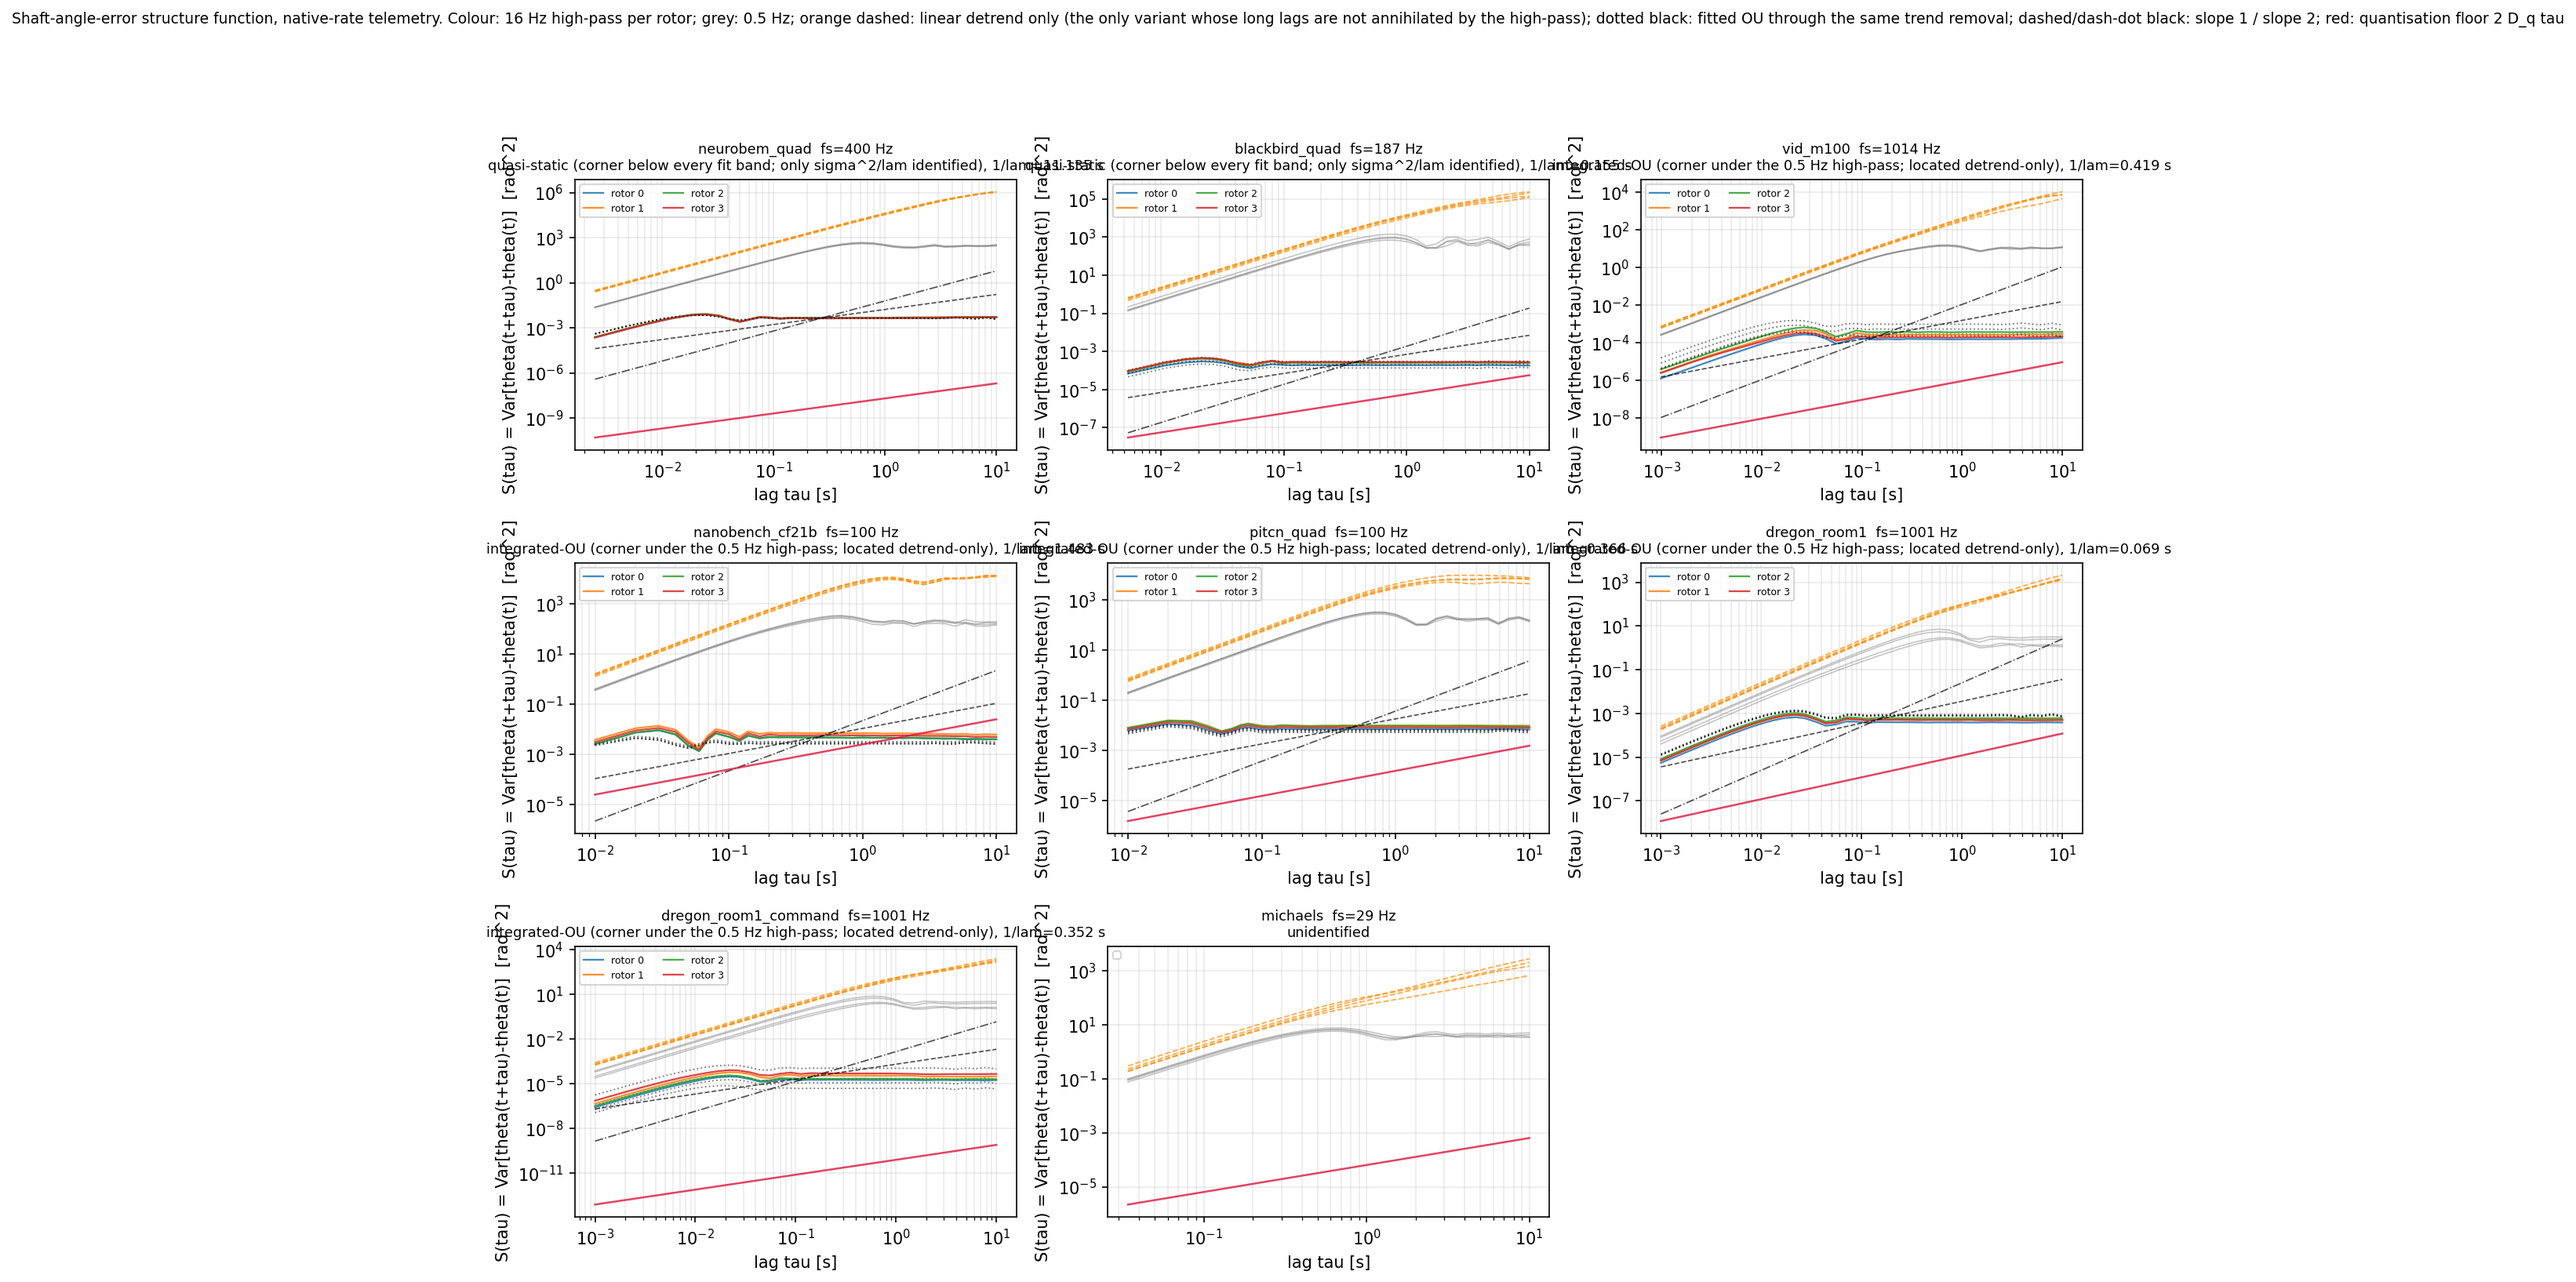
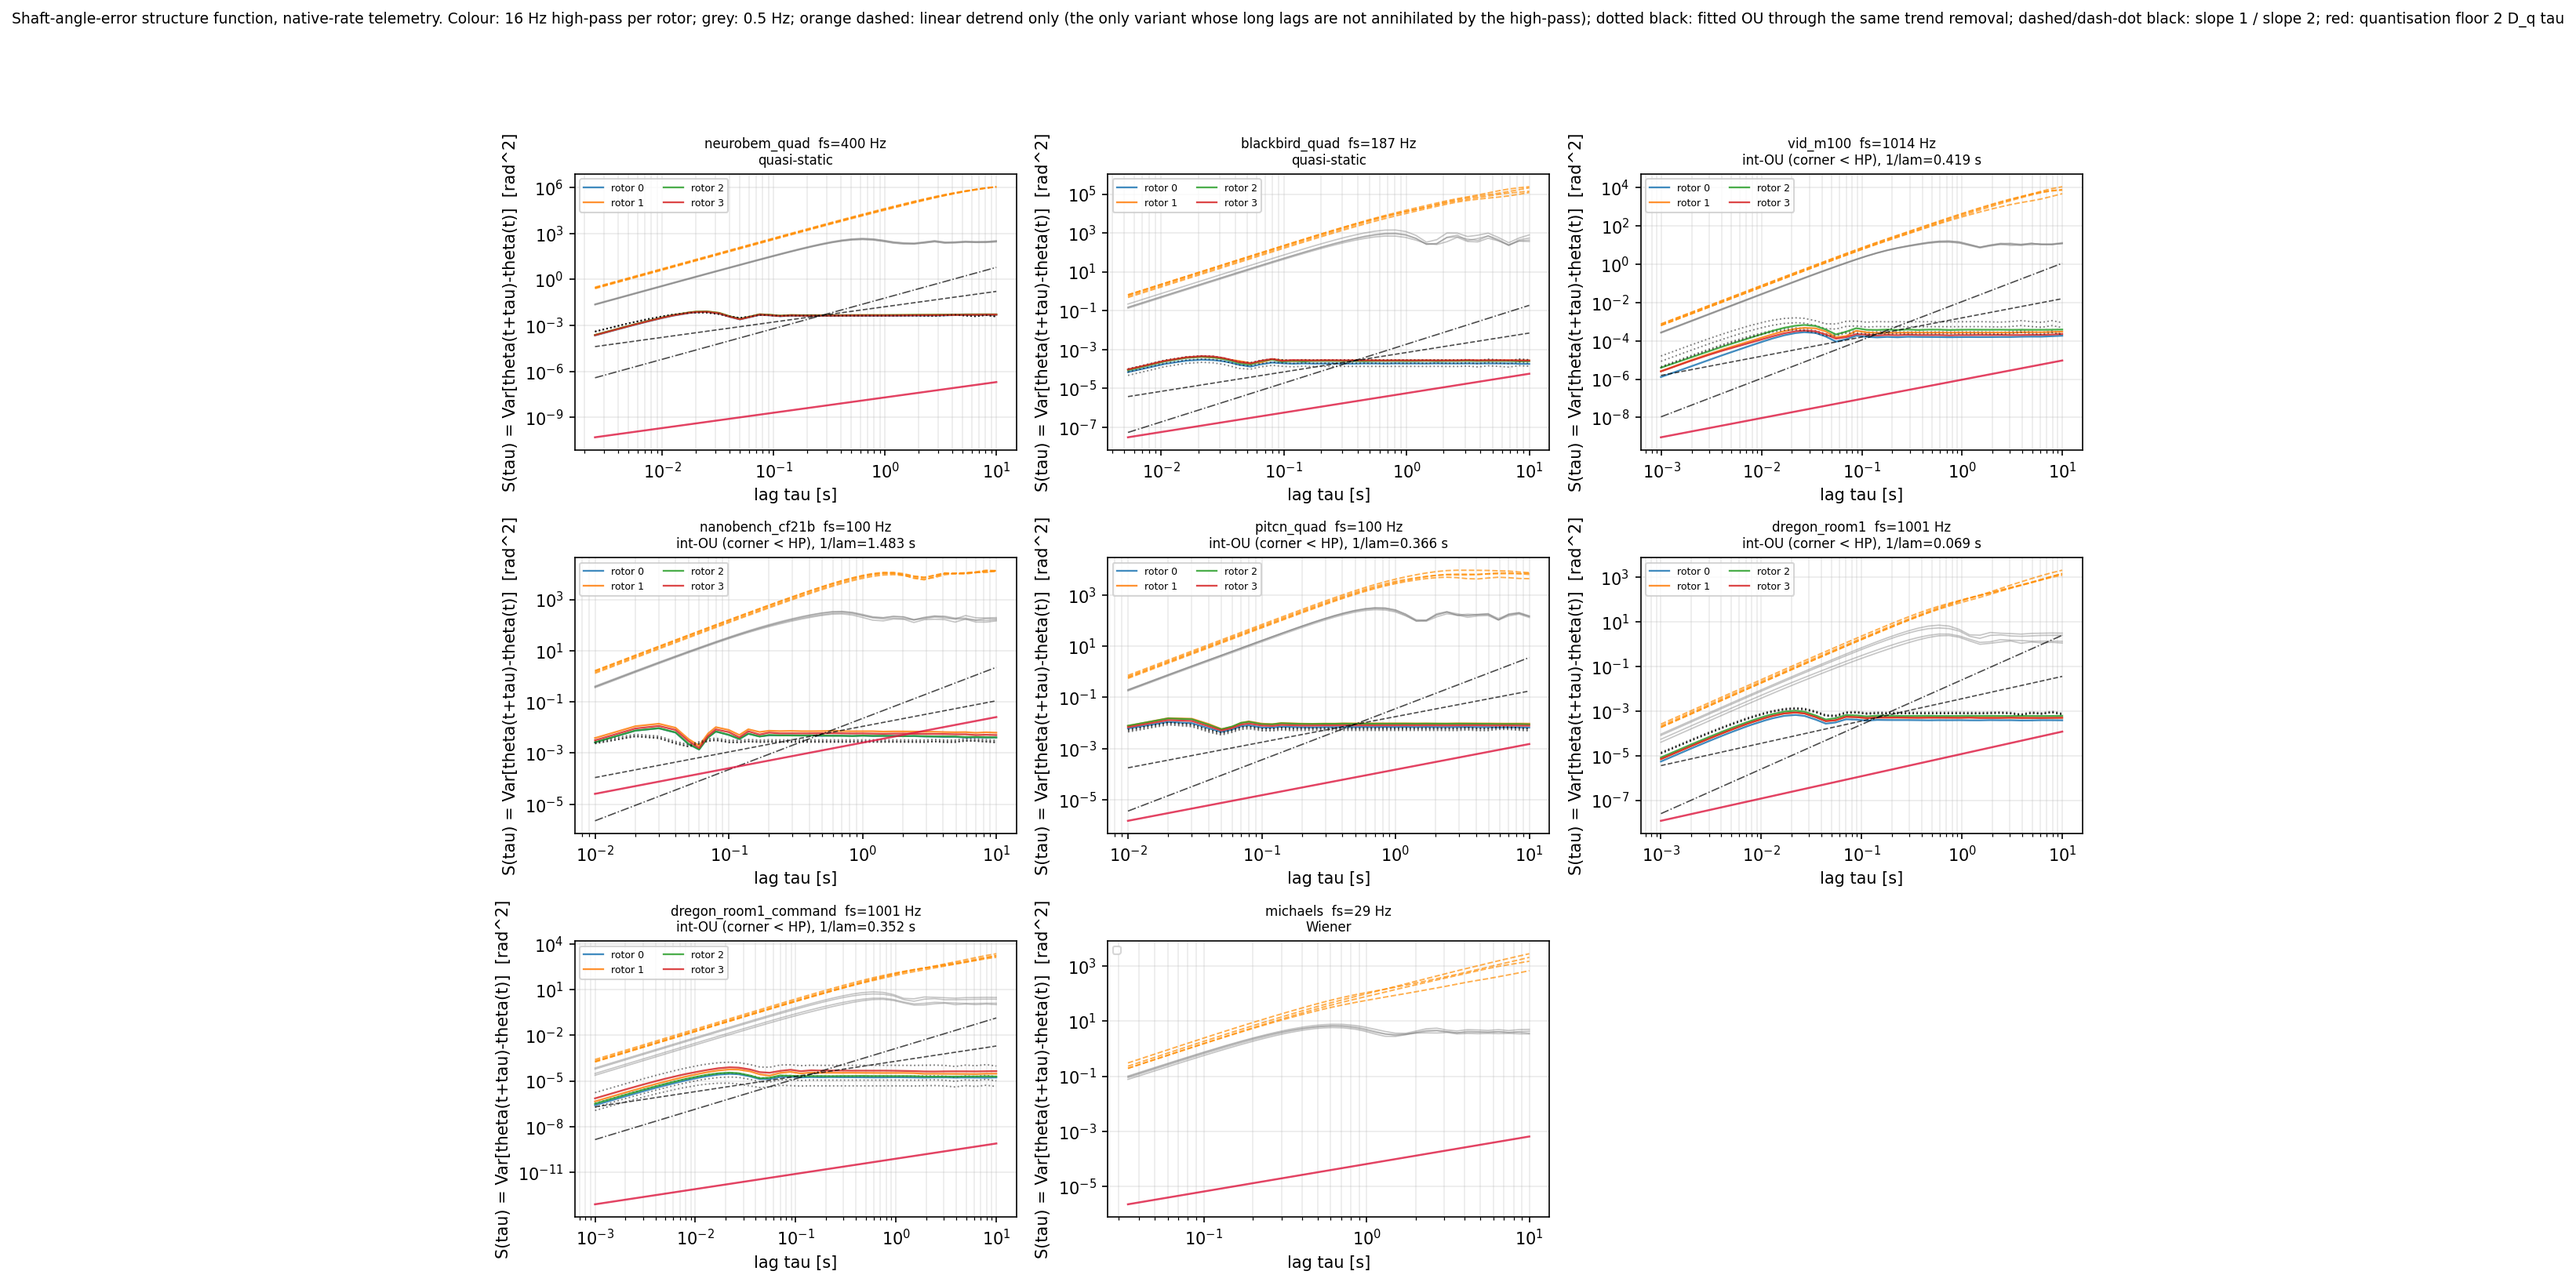
noise-v2 shaft figures: short verdict tags, legible summary table, label-residual headline fallback

diff --git a/scripts/noise_v2_shaft_phase.py b/scripts/noise_v2_shaft_phase.py
@@ -1940,7 +1940,14 @@ def telemetry_verdict(rep: dict[str, Any]) -> dict[str, Any]:
     detrend-only variant - whose band starts at 0.05 Hz - supplies
     ``lam``/``sigma`` and the verdict says which instrument spoke.
     """
-    pooled = rep["highpass"][f"{float(HP_HEADLINE):g}"]["pooled"]
+    hp_key = f"{float(HP_HEADLINE):g}"
+    headline = rep["highpass"].get(hp_key) or {}
+    if headline.get("skipped"):
+        # this rig's own Nyquist is below the label band edge (Michael's log
+        # runs at ~29.4 Hz), so the exact label residual is its headline
+        headline = rep["highpass"].get(LABEL_KEY) or {}
+        hp_key = LABEL_KEY
+    pooled = headline.get("pooled") or {}
     wide = (rep["highpass"].get(DETREND_KEY) or {}).get("pooled") or {}
     q = rep["quantisation"]
     fs = rep["fs_hz"]
@@ -1979,6 +1986,7 @@ def telemetry_verdict(rep: dict[str, Any]) -> dict[str, Any]:
     return {
         "verdict": label,
         "estimator": source,
+        "headline_variant": hp_key,
         # Whether the fitted corner is inside the fit band of the estimator
         # that spoke. Everything downstream keys sigma/lam off this flag.
         "corner_in_band": bool(
@@ -2159,6 +2167,27 @@ def build_comparison(res: dict[str, Any]) -> dict[str, Any]:
 # ═════════════════════════════════════════════════════════════════════════════
 
 
+#: Short tag per verdict, for figure titles. The full sentence belongs in
+#: findings.md; on a three-column panel grid it overlaps its neighbours.
+VERDICT_TAGS = (
+    ("quasi-static", "quasi-static"),
+    ("integrated-OU (corner under", "int-OU (corner < HP)"),
+    ("integrated-OU", "integrated-OU"),
+    ("wiener", "Wiener"),
+    ("saturated", "saturated"),
+    ("unidentified", "unidentified"),
+)
+
+
+def verdict_tag(verdict: Any) -> str:
+    """The short form of a verdict string, for a figure title."""
+    text = str(verdict or "-")
+    for needle, tag in VERDICT_TAGS:
+        if text.startswith(needle):
+            return tag
+    return text.split("(")[0].strip()[:24]
+
+
 def _panel_grid(n: int) -> tuple[int, int]:
     cols = min(3, max(1, n))
     rows = int(math.ceil(n / cols))
@@ -2232,9 +2261,13 @@ def fig_structure_functions(res: dict[str, Any], paths: list[Path]) -> None:
             ax.loglog(tau, 2.0 * dq * tau, color="crimson", lw=1.2, alpha=0.8)
         v = rep["verdict"]
         ax.set_title(
-            f"{rig}  fs={rep['fs_hz']:.0f} Hz\n{v['verdict']}"
-            + (f", 1/lam={1.0 / v['lam_1_s']:.3f} s" if v.get("lam_1_s") else ""),
-            fontsize=8.5,
+            f"{rig}  fs={rep['fs_hz']:.0f} Hz\n{verdict_tag(v.get('verdict'))}"
+            + (
+                f", 1/lam={1.0 / v['lam_1_s']:.3f} s"
+                if (v.get("lam_1_s") and v.get("corner_in_band"))
+                else ""
+            ),
+            fontsize=8.0,
         )
         ax.set_xlabel("lag tau [s]")
         ax.set_ylabel("S(tau) = Var[theta(t+tau)-theta(t)]  [rad^2]")
@@ -2452,8 +2485,12 @@ def fig_Dk_vs_k(res: dict[str, Any], paths: list[Path]) -> None:
 
 
 def fig_summary_table(res: dict[str, Any], paths: list[Path]) -> None:
-    lines = summary_rows(res)
-    fig, ax = plt.subplots(figsize=(13.5, 0.42 * (len(lines) + 2) + 0.8))
+    lines = [list(r) for r in summary_rows(res)]
+    # the rendered table has no room for a whole sentence: tag the verdict and
+    # let findings.md carry the full wording
+    for row in lines[1:]:
+        row[2] = verdict_tag(row[2])
+    fig, ax = plt.subplots(figsize=(17.0, 0.40 * (len(lines) + 2) + 0.7))
     ax.axis("off")
     tab = ax.table(
         cellText=[r[1:] for r in lines[1:]],
@@ -2463,8 +2500,9 @@ def fig_summary_table(res: dict[str, Any], paths: list[Path]) -> None:
         cellLoc="center",
     )
     tab.auto_set_font_size(False)
-    tab.set_fontsize(6.8)
-    tab.scale(1.0, 1.25)
+    tab.set_fontsize(7.4)
+    tab.scale(1.0, 1.45)
+    tab.auto_set_column_width(col=list(range(len(lines[0]) - 1)))
     ax.set_title(
         "Shaft-phase prior, measured. Verdict / sigma_nu [rad/s] / lam [1/s] / "
         "D_theta [rad^2/s] / quantisation share",

diff --git a/results/noise_v2/shaft/findings.md b/results/noise_v2/shaft/findings.md
@@ -15,7 +15,7 @@ The model under test is `V_k(tau) = k^2 V_theta(tau) + 2 D_k tau` with `V_theta(
 | pitcn_quad | telemetry 100 Hz | integrated-OU (corner under the 0.5 Hz high-pass; located detrend-only) | 80.4 | 2.74 | 0.366 | 2.44e+03 | 0.0671 | -65919 | 0.00 |
 | dregon_room1 | telemetry 1001 Hz | integrated-OU (corner under the 0.5 Hz high-pass; located detrend-only) | 8.82 | 14.4 | 0.0693 | 5.6 | 0.00788 | -378933 | 0.00 |
 | dregon_room1_command (aux) | telemetry 1001 Hz | integrated-OU (corner under the 0.5 Hz high-pass; located detrend-only) | 8.01 | 2.84 | 0.352 | 22.2 | 0.00748 | -443845 | 0.00 |
-| michaels | telemetry 29 Hz | unidentified | - | - | - | - | - | - | - |
+| michaels | telemetry 29 Hz | wiener | - | - | - | - | - | +736 | 0.00 |
 
 Figure: `shaft_summary_table.png`.
 
@@ -28,7 +28,7 @@ Figure: `shaft_summary_table.png`.
 - **pitcn_quad** (rps, 100 Hz, 68 flights, 3345 s analysed). Verdict **integrated-OU (corner under the 0.5 Hz high-pass; located detrend-only)**: the Lorentzian fit gives `sigma_nu = 80.4 rad/s`, `lam = 2.74 1/s` (corner 0.435 Hz, fit band 0.5-40 Hz), `D_theta = sigma^2/lam = 2.44e+03 rad^2/s`, and `AIC(OU) - AIC(white) = -65919` (BIC -65915). The structure function crosses slope 1.5 at `tau = 0.0671 s`, i.e. `lam = 32.1 1/s`. The ladder step is 0.0667 rev/s, the value is held for 2.3% of samples and changes at 97.7 Hz, so `D_q = 7.48e-05 rad^2/s` = 0.00 of the measured `D_theta`; quantisation floor is below the measured diffusion.
 - **dregon_room1** (motors_measured, 1001 Hz, 5 flights, 239 s analysed). Verdict **integrated-OU (corner under the 0.5 Hz high-pass; located detrend-only)**: the Lorentzian fit gives `sigma_nu = 8.82 rad/s`, `lam = 14.4 1/s` (corner 2.3 Hz, fit band 0.5-400 Hz), `D_theta = sigma^2/lam = 5.6 rad^2/s`, and `AIC(OU) - AIC(white) = -378933` (BIC -378927). The structure function crosses slope 1.5 at `tau = 0.00788 s`, i.e. `lam = 273 1/s`. The ladder step is 0.013 rev/s, the value is held for 95.4% of samples and changes at 46.4 Hz, so `D_q = 5.99e-06 rad^2/s` = 0.00 of the measured `D_theta`; quantisation floor is below the measured diffusion.
 - **dregon_room1_command** (motors_command, 1001 Hz, 5 flights, 241 s analysed). Verdict **integrated-OU (corner under the 0.5 Hz high-pass; located detrend-only)**: the Lorentzian fit gives `sigma_nu = 8.01 rad/s`, `lam = 2.84 1/s` (corner 0.452 Hz, fit band 0.5-400 Hz), `D_theta = sigma^2/lam = 22.2 rad^2/s`, and `AIC(OU) - AIC(white) = -443845` (BIC -443839). The structure function crosses slope 1.5 at `tau = 0.00748 s`, i.e. `lam = 288 1/s`. The ladder step is 9.92e-05 rev/s, the value is held for 58.0% of samples and changes at 421 Hz, so `D_q = 3.84e-11 rad^2/s` = 0.00 of the measured `D_theta`; quantisation floor is below the measured diffusion. This rig is AUXILIARY: it is a command track, not a speed measurement.
-- **michaels** (rps, 29 Hz, 2 flights, 0 s analysed). Verdict **unidentified**: the Lorentzian fit gives `sigma_nu = - rad/s`, `lam = - 1/s` (corner - Hz, fit band 0.5-11.7 Hz), `D_theta = sigma^2/lam = - rad^2/s`, and `AIC(OU) - AIC(white) = -` (BIC -). The structure function crosses slope 1.5 at `tau = - s`, i.e. `lam = - 1/s`. The ladder step is 0.0168 rev/s, the value is held for 50.6% of samples and changes at 14.4 Hz, so `D_q = 3.21e-05 rad^2/s` = - of the measured `D_theta`; quantisation floor is below the measured diffusion.
+- **michaels** (rps, 29 Hz, 2 flights, 0 s analysed). Verdict **wiener**: the Lorentzian fit gives `sigma_nu = - rad/s`, `lam = 173 1/s` (corner 27.5 Hz, fit band 0.5-11.7 Hz), `D_theta = sigma^2/lam = 0.0256 rad^2/s`, and `AIC(OU) - AIC(white) = +736` (BIC +739). The structure function crosses slope 1.5 at `tau = - s`, i.e. `lam = - 1/s`. The ladder step is 0.0168 rev/s, the value is held for 50.6% of samples and changes at 14.4 Hz, so `D_q = 3.21e-05 rad^2/s` = 0.00 of the measured `D_theta`; quantisation floor is below the measured diffusion.
 
 Figures: `shaft_structure_functions.png`, `shaft_speed_psd.png`.
 
@@ -39,7 +39,7 @@ Figures: `shaft_acoustic_Vk.png`, `shaft_Dk_vs_k.png`.
 
 ## The residual ABOVE the label band - the number the acoustic model needs
 
-A rotor-speed label carried at the working rate 31.25 Hz holds nothing above 15.625 Hz. Everything above is phase noise a renderer must GENERATE, not read. Two variants isolate it: a zero-phase Butterworth high-pass at 16 Hz (a clean band edge, both fitted models multiplied by its |H|^4 power response) and the exact label residual, the native series minus the same series resampled to 31.25 Hz and back. `preferred` is the model the Gamma/Whittle AIC picks on that residual: `white` means the residual speed error is white, so the phase it drives is WIENER with `V_theta = 2 D_theta tau`; `OU tail` means a Lorentzian roll-off survives inside the band. `S(tau)` is the MODEL-FREE structure function of the residual itself, measured per rotor and averaged over rotors, `V(tau) = 2 int S_nu(f)/(2 pi f)^2 [1 - cos(2 pi f tau)] df` over the measured Welch bins. The fitted Lorentzian's own `V_theta` is NOT this number: it integrates the model over all frequencies, including the band the trend removal just deleted, and where the corner sits below the band that extrapolation overstates `V_theta(1 s)` by five orders of magnitude. Rows marked `corner BELOW band` therefore print no sigma, lam or D_theta - on those the band sees the f^-2 tail alone and only the residual columns are measurements.
+A rotor-speed label carried at the working rate 31.25 Hz holds nothing above 15.625 Hz. Everything above is phase noise a renderer must GENERATE, not read. Two variants isolate it: a zero-phase Butterworth high-pass at 16 Hz (a clean band edge, both fitted models multiplied by its |H|^4 power response) and the exact label residual, the native series minus the same series resampled to 31.25 Hz and back. `preferred` is the model the Gamma/Whittle AIC picks on that residual: `white` means the residual speed error is white, so the phase it drives is WIENER with `V_theta = 2 D_theta tau`; `OU tail` means a Lorentzian roll-off survives inside the band. `V_theta(tau)` is the MODEL-FREE structure function of the residual itself, measured per rotor and averaged over rotors, `V(tau) = 2 int S_nu(f)/(2 pi f)^2 [1 - cos(2 pi f tau)] df` over the measured Welch bins. The fitted Lorentzian's own `V_theta` is NOT this number: it integrates the model over all frequencies, including the band the trend removal just deleted, and where the corner sits below the band that extrapolation overstates `V_theta(1 s)` by five orders of magnitude. Rows marked `corner BELOW band` therefore print no sigma, lam or D_theta - on those the band sees the f^-2 tail alone and only the residual columns are measurements.
 
 | rig | variant | fs [Hz] | band [Hz] | preferred | dAIC OU-white | nu_res RMS [rad/s] | S(10 ms) | S(100 ms) | S(1 s) | S_max | slope(5 ms) | slope(50 ms) |
 |---|---|---|---|---|---|---|---|---|---|---|---|---|
@@ -70,7 +70,7 @@ The label-residual variant does NOT saturate - it keeps growing past 50 ms with 
 | rig | C3 sigma [rad/s] | C3 D [rad^2/s] | measured D_theta (telemetry) | measured D_theta (acoustics) | sigma at lam_ref=6 (telemetry) | sigma at lam_ref=6 (acoustics) | C3 sigma / measured |
 |---|---|---|---|---|---|---|---|
 | DREGON airframe | 3.1 | 845 | 5.6 | - | 5.8 | - | tel 0.5x / ac -x |
-| Michael's M100 | 4.21 | 1.63 | - | - | - | - | tel -x / ac -x |
+| Michael's M100 | 4.21 | 1.63 | 0.0256 | - | 0.392 | - | tel 10.7x / ac -x |
 
 ## Caveats
 
